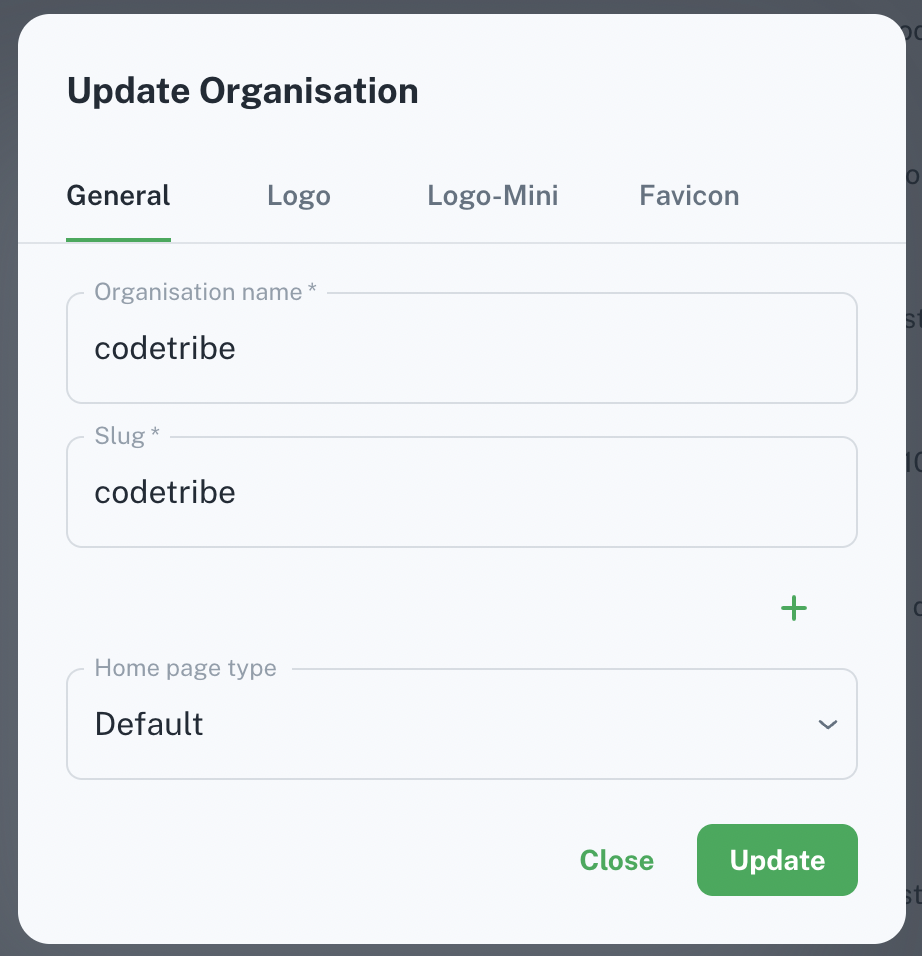
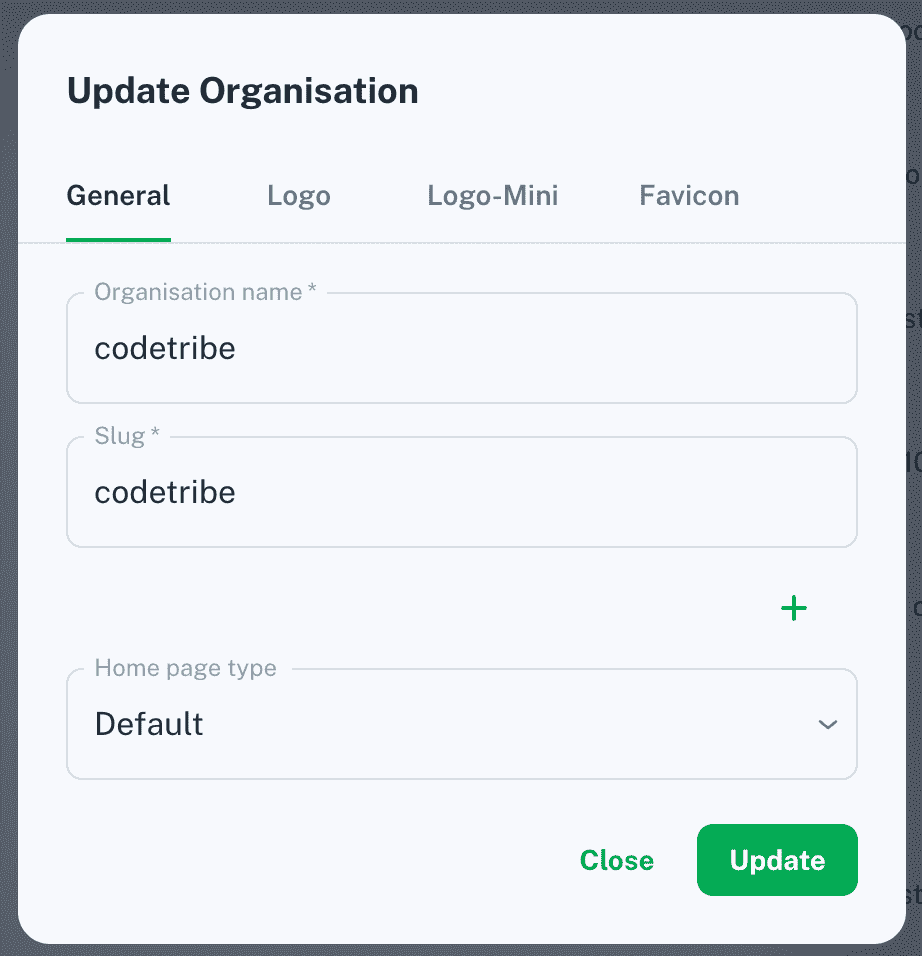
added langs

diff --git a/src/sections/intro-tours/admin-default-intro/config.tsx b/src/sections/intro-tours/admin-default-intro/config.tsx
@@ -5,15 +5,15 @@ import { Image } from '@/components'
 export const getDefaultAdminIntroSteps = (translate: (key: string) => string): Step[] => [
   {
     target: '.defaultIntroAdminStep1',
-    title: <div>{translate('Adjust your tenant')}</div>,
+    title: <div>{translate('manager_admin_intro_tour_step_1_title')}</div>,
     content: (
       <div>
         <Image
           src='/assets/illustrations/illustration_org_edit.png'
           alt='mumu tiger'
-          sx={{ py: 1, minHeight: '290px' }}
+          sx={{ py: 1, minHeight: '290px', maxWidth: '200px', margin: '0 auto' }}
         />
-        {translate('You can adjust your tenant settings')}
+        {translate('manager_admin_intro_tour_step_1_desc')}
       </div>
     ),
     disableBeacon: true,
@@ -21,15 +21,15 @@ export const getDefaultAdminIntroSteps = (translate: (key: string) => string): S
   },
   {
     target: '.defaultIntroAdminStep2',
-    title: <div>{translate('Student profile')}</div>,
+    title: <div>{translate('manager_admin_intro_tour_step_2_title')}</div>,
     content: (
       <div>
         <Image
           src='/assets/illustrations/illustration_student_account.png'
           alt='mumu tiger'
-          sx={{ py: 1, minHeight: '290px' }}
+          sx={{ py: 1, minHeight: '290px', maxWidth: '200px', margin: '0 auto' }}
         />
-        {translate('You can go to your student profile')}
+        {translate('manager_admin_intro_tour_step_2_desc')}
       </div>
     ),
     disableBeacon: true,
